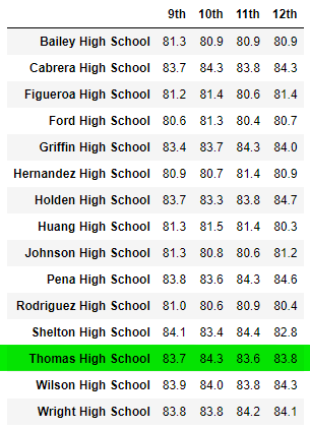
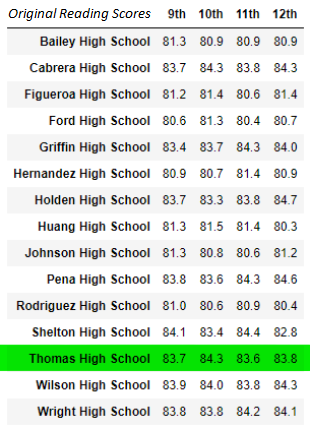
resources grades

Changed region(s): [[0.029, 0.0, 0.4935, 0.0605]]

diff --git a/README.md b/README.md
@@ -59,12 +59,10 @@ the SECOND highest-scoring school in the district, based on their OVERALL passin
 ### Other Effects of Replacing 9th Grade Scores
 #### Math and reading Scores by Grade
 ##### Math Scores
-![Original Math Scores](Resources/math_scores_grade_original.png) ![Updated Math Scores](Resources/math_scores_grade_updated.png)
+![Original Math Scores](Resources/math_scores_grade_original.png) ![Updated Math Scores](Resources/math_scores_grade_updated1.png)
+##### Reading Scores
+![Original Reading Scores](Resources/reading_scores_grade_original.png) ![Updated Reading Scores](Resources/reading_scores_grade_updated.png) 
 
-##### Original Reading Scores
-![Original Reading Scores](Resources/reading_scores_grade_original.png)
-##### Updated Reading Scores
-![Updated Reading Scores](Resources/reading_scores_grade_updated.png)
 #### Scores by school spending
 #### Scores by school size
 #### Scores by school type
